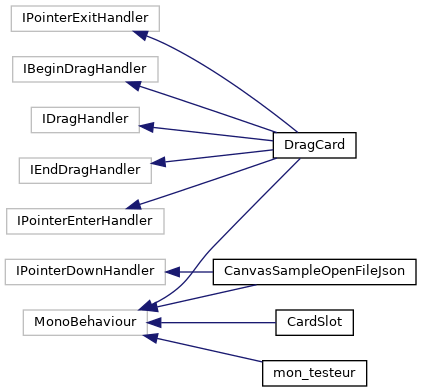
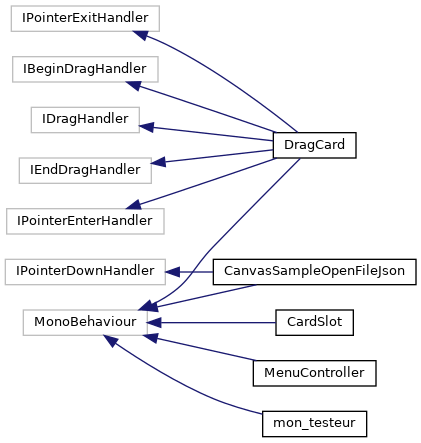
deploy: 10dd949c8f5c652012b1b1406bd644dcd56fb3d9

diff --git a/html/classMenuController.html b/html/classMenuController.html
@@ -5,7 +5,7 @@
 <meta http-equiv="X-UA-Compatible" content="IE=9"/>
 <meta name="generator" content="Doxygen 1.9.1"/>
 <meta name="viewport" content="width=device-width, initial-scale=1"/>
-<title>Planning Poker: Class Index</title>
+<title>Planning Poker: MenuController Class Reference</title>
 <link href="tabs.css" rel="stylesheet" type="text/css"/>
 <script type="text/javascript" src="jquery.js"></script>
 <script type="text/javascript" src="dynsections.js"></script>
@@ -46,7 +46,6 @@ $(function() {
 });
 /* @license-end */</script>
 <div id="main-nav"></div>
-</div><!-- top -->
 <!-- window showing the filter options -->
 <div id="MSearchSelectWindow"
      onmouseover="return searchBox.OnSearchSelectShow()"
@@ -61,35 +60,35 @@ $(function() {
 </iframe>
 </div>
 
+</div><!-- top -->
 <div class="header">
+  <div class="summary">
+<a href="classMenuController-members.html">List of all members</a>  </div>
   <div class="headertitle">
-<div class="title">Class Index</div>  </div>
+<div class="title">MenuController Class Reference</div>  </div>
 </div><!--header-->
 <div class="contents">
-<div class="qindex"><a class="qindex" href="#letter_A">A</a>&#160;|&#160;<a class="qindex" href="#letter_C">C</a>&#160;|&#160;<a class="qindex" href="#letter_D">D</a>&#160;|&#160;<a class="qindex" href="#letter_F">F</a>&#160;|&#160;<a class="qindex" href="#letter_M">M</a>&#160;|&#160;<a class="qindex" href="#letter_T">T</a>&#160;|&#160;<a class="qindex" href="#letter_V">V</a></div>
-<div class="classindex">
-<dl class="classindex even">
-<dt class="alphachar"><a name="letter_A">A</a></dt>
-<dd><a class="el" href="classAppManager.html">AppManager</a></dd><dd><a class="el" href="classPlanningPoker_1_1AppManager.html">AppManager</a> (<a class="el" href="namespacePlanningPoker.html">PlanningPoker</a>)</dd></dl>
-<dl class="classindex odd">
-<dt class="alphachar"><a name="letter_C">C</a></dt>
-<dd><a class="el" href="classCanvasSampleOpenFileJson.html">CanvasSampleOpenFileJson</a></dd><dd><a class="el" href="classCard.html">Card</a></dd><dd><a class="el" href="classPlanningPoker_1_1Card.html">Card</a> (<a class="el" href="namespacePlanningPoker.html">PlanningPoker</a>)</dd><dd><a class="el" href="classCardSlot.html">CardSlot</a></dd></dl>
-<dl class="classindex even">
-<dt class="alphachar"><a name="letter_D">D</a></dt>
-<dd><a class="el" href="classDragCard.html">DragCard</a></dd></dl>
-<dl class="classindex odd">
-<dt class="alphachar"><a name="letter_F">F</a></dt>
-<dd><a class="el" href="classFonctionnalite.html">Fonctionnalite</a></dd><dd><a class="el" href="classPlanningPoker_1_1Fonctionnalite.html">Fonctionnalite</a> (<a class="el" href="namespacePlanningPoker.html">PlanningPoker</a>)</dd><dd><a class="el" href="classPlanningPoker_1_1FonctionnaliteWrapper.html">FonctionnaliteWrapper</a> (<a class="el" href="namespacePlanningPoker.html">PlanningPoker</a>)</dd></dl>
-<dl class="classindex even">
-<dt class="alphachar"><a name="letter_M">M</a></dt>
-<dd><a class="el" href="classMenuController.html">MenuController</a></dd><dd><a class="el" href="classmon__testeur.html">mon_testeur</a></dd></dl>
-<dl class="classindex odd">
-<dt class="alphachar"><a name="letter_T">T</a></dt>
-<dd><a class="el" href="classtestScript.html">testScript</a></dd></dl>
-<dl class="classindex even">
-<dt class="alphachar"><a name="letter_V">V</a></dt>
-<dd><a class="el" href="classPlanningPoker_1_1Validator.html">Validator</a> (<a class="el" href="namespacePlanningPoker.html">PlanningPoker</a>)</dd><dd><a class="el" href="classValidator.html">Validator</a></dd></dl>
+<div class="dynheader">
+Inheritance diagram for MenuController:</div>
+<div class="dyncontent">
+<div class="center"><img src="classMenuController__inherit__graph.png" border="0" usemap="#aMenuController_inherit__map" alt="Inheritance graph"/></div>
+<map name="aMenuController_inherit__map" id="aMenuController_inherit__map">
+<area shape="rect" title=" " alt="" coords="6,131,129,208"/>
+<area shape="rect" title=" " alt="" coords="5,5,129,83"/>
+</map>
 </div>
+<div class="dynheader">
+Collaboration diagram for MenuController:</div>
+<div class="dyncontent">
+<div class="center"><img src="classMenuController__coll__graph.png" border="0" usemap="#aMenuController_coll__map" alt="Collaboration graph"/></div>
+<map name="aMenuController_coll__map" id="aMenuController_coll__map">
+<area shape="rect" title=" " alt="" coords="6,131,129,208"/>
+<area shape="rect" title=" " alt="" coords="5,5,129,83"/>
+</map>
+</div>
+<hr/>The documentation for this class was generated from the following file:<ul>
+<li>Assets/Scripts/Controller/MenuController.cs</li>
+</ul>
 </div><!-- contents -->
 <!-- start footer part -->
 <hr class="footer"/><address class="footer"><small>

diff --git a/html/dir_4876c56409df8cc2452a9d7252525df6.html b/html/dir_4876c56409df8cc2452a9d7252525df6.html
@@ -5,7 +5,7 @@
 <meta http-equiv="X-UA-Compatible" content="IE=9"/>
 <meta name="generator" content="Doxygen 1.9.1"/>
 <meta name="viewport" content="width=device-width, initial-scale=1"/>
-<title>Planning Poker: Class Index</title>
+<title>Planning Poker: Assets/Scripts/Controller Directory Reference</title>
 <link href="tabs.css" rel="stylesheet" type="text/css"/>
 <script type="text/javascript" src="jquery.js"></script>
 <script type="text/javascript" src="dynsections.js"></script>
@@ -46,7 +46,6 @@ $(function() {
 });
 /* @license-end */</script>
 <div id="main-nav"></div>
-</div><!-- top -->
 <!-- window showing the filter options -->
 <div id="MSearchSelectWindow"
      onmouseover="return searchBox.OnSearchSelectShow()"
@@ -61,35 +60,16 @@ $(function() {
 </iframe>
 </div>
 
+<div id="nav-path" class="navpath">
+  <ul>
+<li class="navelem"><a class="el" href="dir_84bbf7b3c7f28a5a18725745e1505219.html">Assets</a></li><li class="navelem"><a class="el" href="dir_f13b41af88cf68434578284aaf699e39.html">Scripts</a></li><li class="navelem"><a class="el" href="dir_4876c56409df8cc2452a9d7252525df6.html">Controller</a></li>  </ul>
+</div>
+</div><!-- top -->
 <div class="header">
   <div class="headertitle">
-<div class="title">Class Index</div>  </div>
+<div class="title">Controller Directory Reference</div>  </div>
 </div><!--header-->
 <div class="contents">
-<div class="qindex"><a class="qindex" href="#letter_A">A</a>&#160;|&#160;<a class="qindex" href="#letter_C">C</a>&#160;|&#160;<a class="qindex" href="#letter_D">D</a>&#160;|&#160;<a class="qindex" href="#letter_F">F</a>&#160;|&#160;<a class="qindex" href="#letter_M">M</a>&#160;|&#160;<a class="qindex" href="#letter_T">T</a>&#160;|&#160;<a class="qindex" href="#letter_V">V</a></div>
-<div class="classindex">
-<dl class="classindex even">
-<dt class="alphachar"><a name="letter_A">A</a></dt>
-<dd><a class="el" href="classAppManager.html">AppManager</a></dd><dd><a class="el" href="classPlanningPoker_1_1AppManager.html">AppManager</a> (<a class="el" href="namespacePlanningPoker.html">PlanningPoker</a>)</dd></dl>
-<dl class="classindex odd">
-<dt class="alphachar"><a name="letter_C">C</a></dt>
-<dd><a class="el" href="classCanvasSampleOpenFileJson.html">CanvasSampleOpenFileJson</a></dd><dd><a class="el" href="classCard.html">Card</a></dd><dd><a class="el" href="classPlanningPoker_1_1Card.html">Card</a> (<a class="el" href="namespacePlanningPoker.html">PlanningPoker</a>)</dd><dd><a class="el" href="classCardSlot.html">CardSlot</a></dd></dl>
-<dl class="classindex even">
-<dt class="alphachar"><a name="letter_D">D</a></dt>
-<dd><a class="el" href="classDragCard.html">DragCard</a></dd></dl>
-<dl class="classindex odd">
-<dt class="alphachar"><a name="letter_F">F</a></dt>
-<dd><a class="el" href="classFonctionnalite.html">Fonctionnalite</a></dd><dd><a class="el" href="classPlanningPoker_1_1Fonctionnalite.html">Fonctionnalite</a> (<a class="el" href="namespacePlanningPoker.html">PlanningPoker</a>)</dd><dd><a class="el" href="classPlanningPoker_1_1FonctionnaliteWrapper.html">FonctionnaliteWrapper</a> (<a class="el" href="namespacePlanningPoker.html">PlanningPoker</a>)</dd></dl>
-<dl class="classindex even">
-<dt class="alphachar"><a name="letter_M">M</a></dt>
-<dd><a class="el" href="classMenuController.html">MenuController</a></dd><dd><a class="el" href="classmon__testeur.html">mon_testeur</a></dd></dl>
-<dl class="classindex odd">
-<dt class="alphachar"><a name="letter_T">T</a></dt>
-<dd><a class="el" href="classtestScript.html">testScript</a></dd></dl>
-<dl class="classindex even">
-<dt class="alphachar"><a name="letter_V">V</a></dt>
-<dd><a class="el" href="classPlanningPoker_1_1Validator.html">Validator</a> (<a class="el" href="namespacePlanningPoker.html">PlanningPoker</a>)</dd><dd><a class="el" href="classValidator.html">Validator</a></dd></dl>
-</div>
 </div><!-- contents -->
 <!-- start footer part -->
 <hr class="footer"/><address class="footer"><small>

diff --git a/html/classMenuController-members.html b/html/classMenuController-members.html
@@ -5,7 +5,7 @@
 <meta http-equiv="X-UA-Compatible" content="IE=9"/>
 <meta name="generator" content="Doxygen 1.9.1"/>
 <meta name="viewport" content="width=device-width, initial-scale=1"/>
-<title>Planning Poker: Class Index</title>
+<title>Planning Poker: Member List</title>
 <link href="tabs.css" rel="stylesheet" type="text/css"/>
 <script type="text/javascript" src="jquery.js"></script>
 <script type="text/javascript" src="dynsections.js"></script>
@@ -46,7 +46,6 @@ $(function() {
 });
 /* @license-end */</script>
 <div id="main-nav"></div>
-</div><!-- top -->
 <!-- window showing the filter options -->
 <div id="MSearchSelectWindow"
      onmouseover="return searchBox.OnSearchSelectShow()"
@@ -61,35 +60,14 @@ $(function() {
 </iframe>
 </div>
 
+</div><!-- top -->
 <div class="header">
   <div class="headertitle">
-<div class="title">Class Index</div>  </div>
+<div class="title">MenuController Member List</div>  </div>
 </div><!--header-->
 <div class="contents">
-<div class="qindex"><a class="qindex" href="#letter_A">A</a>&#160;|&#160;<a class="qindex" href="#letter_C">C</a>&#160;|&#160;<a class="qindex" href="#letter_D">D</a>&#160;|&#160;<a class="qindex" href="#letter_F">F</a>&#160;|&#160;<a class="qindex" href="#letter_M">M</a>&#160;|&#160;<a class="qindex" href="#letter_T">T</a>&#160;|&#160;<a class="qindex" href="#letter_V">V</a></div>
-<div class="classindex">
-<dl class="classindex even">
-<dt class="alphachar"><a name="letter_A">A</a></dt>
-<dd><a class="el" href="classAppManager.html">AppManager</a></dd><dd><a class="el" href="classPlanningPoker_1_1AppManager.html">AppManager</a> (<a class="el" href="namespacePlanningPoker.html">PlanningPoker</a>)</dd></dl>
-<dl class="classindex odd">
-<dt class="alphachar"><a name="letter_C">C</a></dt>
-<dd><a class="el" href="classCanvasSampleOpenFileJson.html">CanvasSampleOpenFileJson</a></dd><dd><a class="el" href="classCard.html">Card</a></dd><dd><a class="el" href="classPlanningPoker_1_1Card.html">Card</a> (<a class="el" href="namespacePlanningPoker.html">PlanningPoker</a>)</dd><dd><a class="el" href="classCardSlot.html">CardSlot</a></dd></dl>
-<dl class="classindex even">
-<dt class="alphachar"><a name="letter_D">D</a></dt>
-<dd><a class="el" href="classDragCard.html">DragCard</a></dd></dl>
-<dl class="classindex odd">
-<dt class="alphachar"><a name="letter_F">F</a></dt>
-<dd><a class="el" href="classFonctionnalite.html">Fonctionnalite</a></dd><dd><a class="el" href="classPlanningPoker_1_1Fonctionnalite.html">Fonctionnalite</a> (<a class="el" href="namespacePlanningPoker.html">PlanningPoker</a>)</dd><dd><a class="el" href="classPlanningPoker_1_1FonctionnaliteWrapper.html">FonctionnaliteWrapper</a> (<a class="el" href="namespacePlanningPoker.html">PlanningPoker</a>)</dd></dl>
-<dl class="classindex even">
-<dt class="alphachar"><a name="letter_M">M</a></dt>
-<dd><a class="el" href="classMenuController.html">MenuController</a></dd><dd><a class="el" href="classmon__testeur.html">mon_testeur</a></dd></dl>
-<dl class="classindex odd">
-<dt class="alphachar"><a name="letter_T">T</a></dt>
-<dd><a class="el" href="classtestScript.html">testScript</a></dd></dl>
-<dl class="classindex even">
-<dt class="alphachar"><a name="letter_V">V</a></dt>
-<dd><a class="el" href="classPlanningPoker_1_1Validator.html">Validator</a> (<a class="el" href="namespacePlanningPoker.html">PlanningPoker</a>)</dd><dd><a class="el" href="classValidator.html">Validator</a></dd></dl>
-</div>
+
+<p>This is the complete list of members for <a class="el" href="classMenuController.html">MenuController</a>, including all inherited members.</p>
 </div><!-- contents -->
 <!-- start footer part -->
 <hr class="footer"/><address class="footer"><small>

diff --git a/html/hierarchy.html b/html/hierarchy.html
@@ -93,10 +93,11 @@ This inheritance list is sorted roughly, but not completely, alphabetically:</di
 <tr id="row_13_0_" class="even"><td class="entry"><span style="width:32px;display:inline-block;">&#160;</span><span class="icona"><span class="icon">C</span></span><a class="el" href="classCanvasSampleOpenFileJson.html" target="_self">CanvasSampleOpenFileJson</a></td><td class="desc"></td></tr>
 <tr id="row_13_1_"><td class="entry"><span style="width:32px;display:inline-block;">&#160;</span><span class="icona"><span class="icon">C</span></span><a class="el" href="classCardSlot.html" target="_self">CardSlot</a></td><td class="desc"></td></tr>
 <tr id="row_13_2_" class="even"><td class="entry"><span style="width:32px;display:inline-block;">&#160;</span><span class="icona"><span class="icon">C</span></span><a class="el" href="classDragCard.html" target="_self">DragCard</a></td><td class="desc"></td></tr>
-<tr id="row_13_3_"><td class="entry"><span style="width:32px;display:inline-block;">&#160;</span><span class="icona"><span class="icon">C</span></span><a class="el" href="classmon__testeur.html" target="_self">mon_testeur</a></td><td class="desc"></td></tr>
-<tr id="row_14_" class="even"><td class="entry"><span style="width:16px;display:inline-block;">&#160;</span><span class="icona"><span class="icon">C</span></span><a class="el" href="classtestScript.html" target="_self">testScript</a></td><td class="desc"></td></tr>
-<tr id="row_15_"><td class="entry"><span style="width:16px;display:inline-block;">&#160;</span><span class="icona"><span class="icon">C</span></span><a class="el" href="classPlanningPoker_1_1Validator.html" target="_self">PlanningPoker.Validator</a></td><td class="desc"></td></tr>
-<tr id="row_16_" class="even"><td class="entry"><span style="width:16px;display:inline-block;">&#160;</span><span class="icona"><span class="icon">C</span></span><a class="el" href="classValidator.html" target="_self">Validator</a></td><td class="desc">Equivalent aux modes de jeu </td></tr>
+<tr id="row_13_3_"><td class="entry"><span style="width:32px;display:inline-block;">&#160;</span><span class="icona"><span class="icon">C</span></span><a class="el" href="classMenuController.html" target="_self">MenuController</a></td><td class="desc"></td></tr>
+<tr id="row_13_4_" class="even"><td class="entry"><span style="width:32px;display:inline-block;">&#160;</span><span class="icona"><span class="icon">C</span></span><a class="el" href="classmon__testeur.html" target="_self">mon_testeur</a></td><td class="desc"></td></tr>
+<tr id="row_14_"><td class="entry"><span style="width:16px;display:inline-block;">&#160;</span><span class="icona"><span class="icon">C</span></span><a class="el" href="classtestScript.html" target="_self">testScript</a></td><td class="desc"></td></tr>
+<tr id="row_15_" class="even"><td class="entry"><span style="width:16px;display:inline-block;">&#160;</span><span class="icona"><span class="icon">C</span></span><a class="el" href="classPlanningPoker_1_1Validator.html" target="_self">PlanningPoker.Validator</a></td><td class="desc"></td></tr>
+<tr id="row_16_"><td class="entry"><span style="width:16px;display:inline-block;">&#160;</span><span class="icona"><span class="icon">C</span></span><a class="el" href="classValidator.html" target="_self">Validator</a></td><td class="desc">Equivalent aux modes de jeu </td></tr>
 </table>
 </div><!-- directory -->
 </div><!-- contents -->

diff --git a/html/annotated.html b/html/annotated.html
@@ -80,9 +80,10 @@ $(function() {
 <tr id="row_4_"><td class="entry"><span style="width:16px;display:inline-block;">&#160;</span><span class="icona"><span class="icon">C</span></span><a class="el" href="classCardSlot.html" target="_self">CardSlot</a></td><td class="desc"></td></tr>
 <tr id="row_5_" class="even"><td class="entry"><span style="width:16px;display:inline-block;">&#160;</span><span class="icona"><span class="icon">C</span></span><a class="el" href="classDragCard.html" target="_self">DragCard</a></td><td class="desc"></td></tr>
 <tr id="row_6_"><td class="entry"><span style="width:16px;display:inline-block;">&#160;</span><span class="icona"><span class="icon">C</span></span><a class="el" href="classFonctionnalite.html" target="_self">Fonctionnalite</a></td><td class="desc">Représente une fonctionnalité à estimer </td></tr>
-<tr id="row_7_" class="even"><td class="entry"><span style="width:16px;display:inline-block;">&#160;</span><span class="icona"><span class="icon">C</span></span><a class="el" href="classmon__testeur.html" target="_self">mon_testeur</a></td><td class="desc"></td></tr>
-<tr id="row_8_"><td class="entry"><span style="width:16px;display:inline-block;">&#160;</span><span class="icona"><span class="icon">C</span></span><a class="el" href="classtestScript.html" target="_self">testScript</a></td><td class="desc"></td></tr>
-<tr id="row_9_" class="even"><td class="entry"><span style="width:16px;display:inline-block;">&#160;</span><span class="icona"><span class="icon">C</span></span><a class="el" href="classValidator.html" target="_self">Validator</a></td><td class="desc">Equivalent aux modes de jeu </td></tr>
+<tr id="row_7_" class="even"><td class="entry"><span style="width:16px;display:inline-block;">&#160;</span><span class="icona"><span class="icon">C</span></span><a class="el" href="classMenuController.html" target="_self">MenuController</a></td><td class="desc"></td></tr>
+<tr id="row_8_"><td class="entry"><span style="width:16px;display:inline-block;">&#160;</span><span class="icona"><span class="icon">C</span></span><a class="el" href="classmon__testeur.html" target="_self">mon_testeur</a></td><td class="desc"></td></tr>
+<tr id="row_9_" class="even"><td class="entry"><span style="width:16px;display:inline-block;">&#160;</span><span class="icona"><span class="icon">C</span></span><a class="el" href="classtestScript.html" target="_self">testScript</a></td><td class="desc"></td></tr>
+<tr id="row_10_"><td class="entry"><span style="width:16px;display:inline-block;">&#160;</span><span class="icona"><span class="icon">C</span></span><a class="el" href="classValidator.html" target="_self">Validator</a></td><td class="desc">Equivalent aux modes de jeu </td></tr>
 </table>
 </div><!-- directory -->
 </div><!-- contents -->

diff --git a/html/search/all_b.js b/html/search/all_b.js
@@ -1,8 +1,8 @@
 var searchData=
 [
-  ['save_26',['save',['../classPlanningPoker_1_1AppManager.html#a62d7eb5142c74fe16166363f0cce4f16',1,'PlanningPoker::AppManager']]],
-  ['setdescription_27',['setDescription',['../classPlanningPoker_1_1Fonctionnalite.html#a2255022a927276beb4ff98899d33d651',1,'PlanningPoker::Fonctionnalite']]],
-  ['setnom_28',['setNom',['../classPlanningPoker_1_1Fonctionnalite.html#a84301abcdecad9c7f882c491deebda21',1,'PlanningPoker::Fonctionnalite']]],
-  ['setnote_29',['setNote',['../classPlanningPoker_1_1Fonctionnalite.html#a0b78c8149b561becfe77922b3924c1ce',1,'PlanningPoker::Fonctionnalite']]],
-  ['strict_30',['strict',['../classPlanningPoker_1_1Validator.html#a6efa7579c4ea490d7a430a799d25eef9',1,'PlanningPoker::Validator']]]
+  ['save_27',['save',['../classPlanningPoker_1_1AppManager.html#a62d7eb5142c74fe16166363f0cce4f16',1,'PlanningPoker::AppManager']]],
+  ['setdescription_28',['setDescription',['../classPlanningPoker_1_1Fonctionnalite.html#a2255022a927276beb4ff98899d33d651',1,'PlanningPoker::Fonctionnalite']]],
+  ['setnom_29',['setNom',['../classPlanningPoker_1_1Fonctionnalite.html#a84301abcdecad9c7f882c491deebda21',1,'PlanningPoker::Fonctionnalite']]],
+  ['setnote_30',['setNote',['../classPlanningPoker_1_1Fonctionnalite.html#a0b78c8149b561becfe77922b3924c1ce',1,'PlanningPoker::Fonctionnalite']]],
+  ['strict_31',['strict',['../classPlanningPoker_1_1Validator.html#a6efa7579c4ea490d7a430a799d25eef9',1,'PlanningPoker::Validator']]]
 ];

diff --git a/html/search/functions_2.js b/html/search/functions_2.js
@@ -1,7 +1,7 @@
 var searchData=
 [
-  ['getcurrent_54',['getCurrent',['../classPlanningPoker_1_1AppManager.html#aab28663b8514785b9dc38b845d47c62c',1,'PlanningPoker::AppManager']]],
-  ['getdescription_55',['getDescription',['../classPlanningPoker_1_1Fonctionnalite.html#ae7c520d6348f40ac85679a803034ac16',1,'PlanningPoker::Fonctionnalite']]],
-  ['getnom_56',['getNom',['../classPlanningPoker_1_1Fonctionnalite.html#a841cf84389a63c7e19fdc114711a75d8',1,'PlanningPoker::Fonctionnalite']]],
-  ['getnote_57',['getNote',['../classPlanningPoker_1_1Fonctionnalite.html#ad688c9650bfa2642f032b2d8466c9415',1,'PlanningPoker::Fonctionnalite']]]
+  ['getcurrent_56',['getCurrent',['../classPlanningPoker_1_1AppManager.html#aab28663b8514785b9dc38b845d47c62c',1,'PlanningPoker::AppManager']]],
+  ['getdescription_57',['getDescription',['../classPlanningPoker_1_1Fonctionnalite.html#ae7c520d6348f40ac85679a803034ac16',1,'PlanningPoker::Fonctionnalite']]],
+  ['getnom_58',['getNom',['../classPlanningPoker_1_1Fonctionnalite.html#a841cf84389a63c7e19fdc114711a75d8',1,'PlanningPoker::Fonctionnalite']]],
+  ['getnote_59',['getNote',['../classPlanningPoker_1_1Fonctionnalite.html#ad688c9650bfa2642f032b2d8466c9415',1,'PlanningPoker::Fonctionnalite']]]
 ];

diff --git a/html/search/variables_4.js b/html/search/variables_4.js
@@ -1,7 +1,7 @@
 var searchData=
 [
-  ['majorite_5fabsolue_73',['majorite_absolue',['../classPlanningPoker_1_1Validator.html#a6f532cfc575351413b464380f290f5dc',1,'PlanningPoker::Validator']]],
-  ['majorite_5frelative_74',['majorite_relative',['../classPlanningPoker_1_1Validator.html#acc08d77adbac1ad15a9d1a2450848420',1,'PlanningPoker::Validator']]],
-  ['mediane_75',['mediane',['../classPlanningPoker_1_1Validator.html#ae169f48402c6270d65f8630da6733e8f',1,'PlanningPoker::Validator']]],
-  ['moyenne_76',['moyenne',['../classPlanningPoker_1_1Validator.html#a6622d5a1cead940008daa4ebacb09b6d',1,'PlanningPoker::Validator']]]
+  ['majorite_5fabsolue_75',['majorite_absolue',['../classPlanningPoker_1_1Validator.html#a6f532cfc575351413b464380f290f5dc',1,'PlanningPoker::Validator']]],
+  ['majorite_5frelative_76',['majorite_relative',['../classPlanningPoker_1_1Validator.html#acc08d77adbac1ad15a9d1a2450848420',1,'PlanningPoker::Validator']]],
+  ['mediane_77',['mediane',['../classPlanningPoker_1_1Validator.html#ae169f48402c6270d65f8630da6733e8f',1,'PlanningPoker::Validator']]],
+  ['moyenne_78',['moyenne',['../classPlanningPoker_1_1Validator.html#a6622d5a1cead940008daa4ebacb09b6d',1,'PlanningPoker::Validator']]]
 ];

diff --git a/html/search/functions_5.js b/html/search/functions_5.js
@@ -1,7 +1,7 @@
 var searchData=
 [
-  ['save_60',['save',['../classPlanningPoker_1_1AppManager.html#a62d7eb5142c74fe16166363f0cce4f16',1,'PlanningPoker::AppManager']]],
-  ['setdescription_61',['setDescription',['../classPlanningPoker_1_1Fonctionnalite.html#a2255022a927276beb4ff98899d33d651',1,'PlanningPoker::Fonctionnalite']]],
-  ['setnom_62',['setNom',['../classPlanningPoker_1_1Fonctionnalite.html#a84301abcdecad9c7f882c491deebda21',1,'PlanningPoker::Fonctionnalite']]],
-  ['setnote_63',['setNote',['../classPlanningPoker_1_1Fonctionnalite.html#a0b78c8149b561becfe77922b3924c1ce',1,'PlanningPoker::Fonctionnalite']]]
+  ['save_62',['save',['../classPlanningPoker_1_1AppManager.html#a62d7eb5142c74fe16166363f0cce4f16',1,'PlanningPoker::AppManager']]],
+  ['setdescription_63',['setDescription',['../classPlanningPoker_1_1Fonctionnalite.html#a2255022a927276beb4ff98899d33d651',1,'PlanningPoker::Fonctionnalite']]],
+  ['setnom_64',['setNom',['../classPlanningPoker_1_1Fonctionnalite.html#a84301abcdecad9c7f882c491deebda21',1,'PlanningPoker::Fonctionnalite']]],
+  ['setnote_65',['setNote',['../classPlanningPoker_1_1Fonctionnalite.html#a0b78c8149b561becfe77922b3924c1ce',1,'PlanningPoker::Fonctionnalite']]]
 ];

diff --git a/html/search/all_c.js b/html/search/all_c.js
@@ -1,8 +1,8 @@
 var searchData=
 [
-  ['testscript_31',['testScript',['../classtestScript.html',1,'']]],
-  ['toint_32',['toInt',['../classPlanningPoker_1_1Card.html#a3b390b079c877cc4d060c697e242e995',1,'PlanningPoker::Card']]],
-  ['tostring_33',['toString',['../classPlanningPoker_1_1Card.html#aeee0070542af3ad678dd43e6b4e1ff0d',1,'PlanningPoker::Card']]],
-  ['treize_34',['treize',['../classPlanningPoker_1_1Card.html#a5d0dd8f6109581ef107caffafa95b7a7',1,'PlanningPoker::Card']]],
-  ['trois_35',['trois',['../classPlanningPoker_1_1Card.html#a1031c79a0d575c6da67256fd71ef1578',1,'PlanningPoker::Card']]]
+  ['testscript_32',['testScript',['../classtestScript.html',1,'']]],
+  ['toint_33',['toInt',['../classPlanningPoker_1_1Card.html#a3b390b079c877cc4d060c697e242e995',1,'PlanningPoker::Card']]],
+  ['tostring_34',['toString',['../classPlanningPoker_1_1Card.html#aeee0070542af3ad678dd43e6b4e1ff0d',1,'PlanningPoker::Card']]],
+  ['treize_35',['treize',['../classPlanningPoker_1_1Card.html#a5d0dd8f6109581ef107caffafa95b7a7',1,'PlanningPoker::Card']]],
+  ['trois_36',['trois',['../classPlanningPoker_1_1Card.html#a1031c79a0d575c6da67256fd71ef1578',1,'PlanningPoker::Card']]]
 ];

diff --git a/html/search/all_7.js b/html/search/all_7.js
@@ -3,6 +3,7 @@ var searchData=
   ['majorite_5fabsolue_18',['majorite_absolue',['../classPlanningPoker_1_1Validator.html#a6f532cfc575351413b464380f290f5dc',1,'PlanningPoker::Validator']]],
   ['majorite_5frelative_19',['majorite_relative',['../classPlanningPoker_1_1Validator.html#acc08d77adbac1ad15a9d1a2450848420',1,'PlanningPoker::Validator']]],
   ['mediane_20',['mediane',['../classPlanningPoker_1_1Validator.html#ae169f48402c6270d65f8630da6733e8f',1,'PlanningPoker::Validator']]],
-  ['mon_5ftesteur_21',['mon_testeur',['../classmon__testeur.html',1,'']]],
-  ['moyenne_22',['moyenne',['../classPlanningPoker_1_1Validator.html#a6622d5a1cead940008daa4ebacb09b6d',1,'PlanningPoker::Validator']]]
+  ['menucontroller_21',['MenuController',['../classMenuController.html',1,'']]],
+  ['mon_5ftesteur_22',['mon_testeur',['../classmon__testeur.html',1,'']]],
+  ['moyenne_23',['moyenne',['../classPlanningPoker_1_1Validator.html#a6622d5a1cead940008daa4ebacb09b6d',1,'PlanningPoker::Validator']]]
 ];

diff --git a/html/search/all_e.js b/html/search/all_e.js
@@ -1,6 +1,6 @@
 var searchData=
 [
-  ['validate_37',['Validate',['../classPlanningPoker_1_1Validator.html#ae784c11e68040194319cc554fe1db881',1,'PlanningPoker::Validator']]],
-  ['validator_38',['Validator',['../classPlanningPoker_1_1Validator.html',1,'PlanningPoker.Validator'],['../classValidator.html',1,'Validator']]],
-  ['vingt_39',['vingt',['../classPlanningPoker_1_1Card.html#a6d4f47c741c8b0697baaf721c573978b',1,'PlanningPoker::Card']]]
+  ['validate_38',['Validate',['../classPlanningPoker_1_1Validator.html#ae784c11e68040194319cc554fe1db881',1,'PlanningPoker::Validator']]],
+  ['validator_39',['Validator',['../classPlanningPoker_1_1Validator.html',1,'PlanningPoker.Validator'],['../classValidator.html',1,'Validator']]],
+  ['vingt_40',['vingt',['../classPlanningPoker_1_1Card.html#a6d4f47c741c8b0697baaf721c573978b',1,'PlanningPoker::Card']]]
 ];
